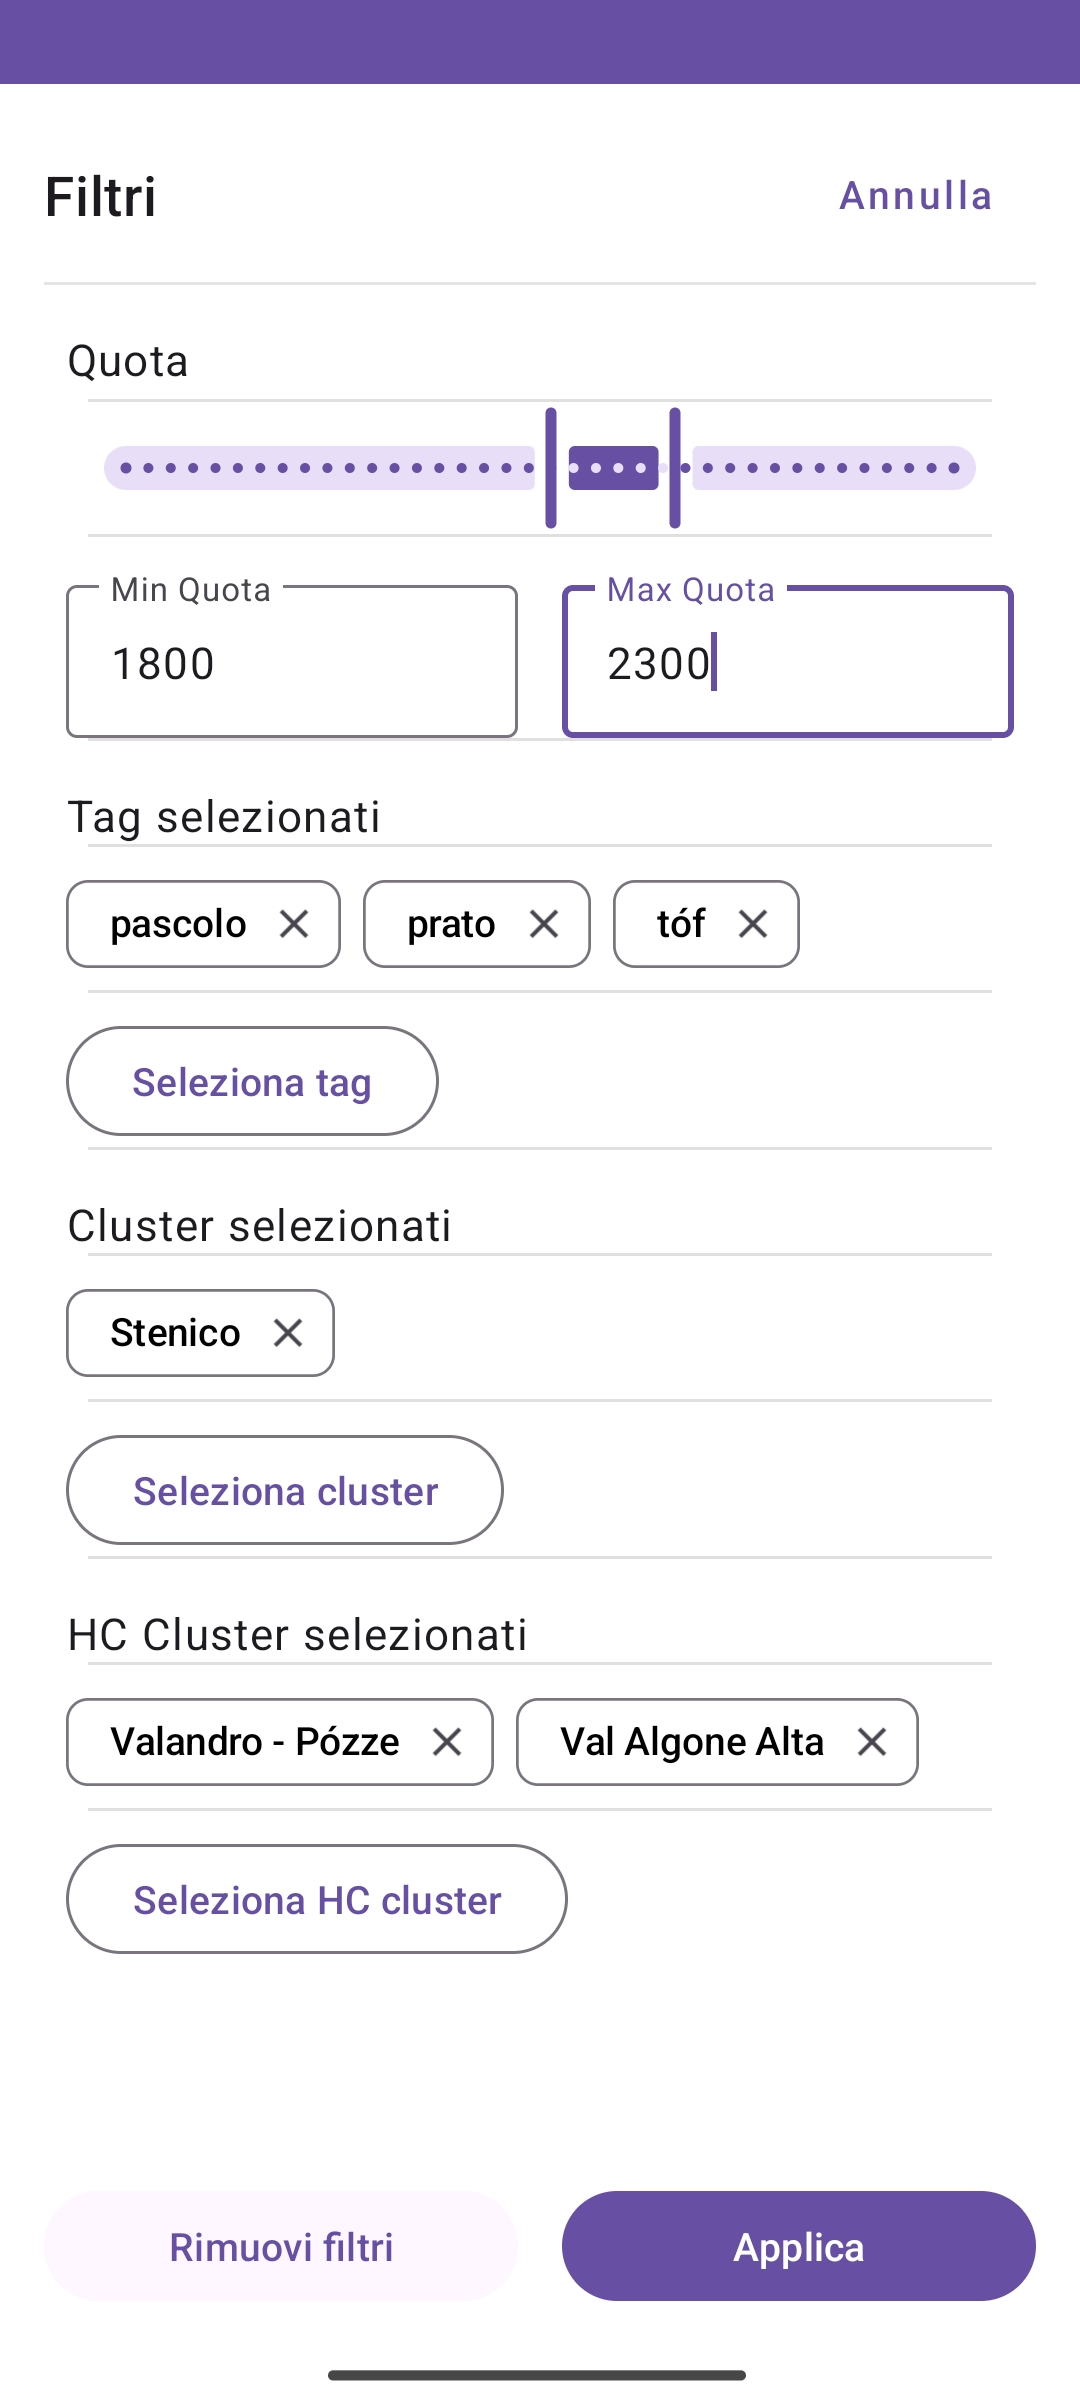
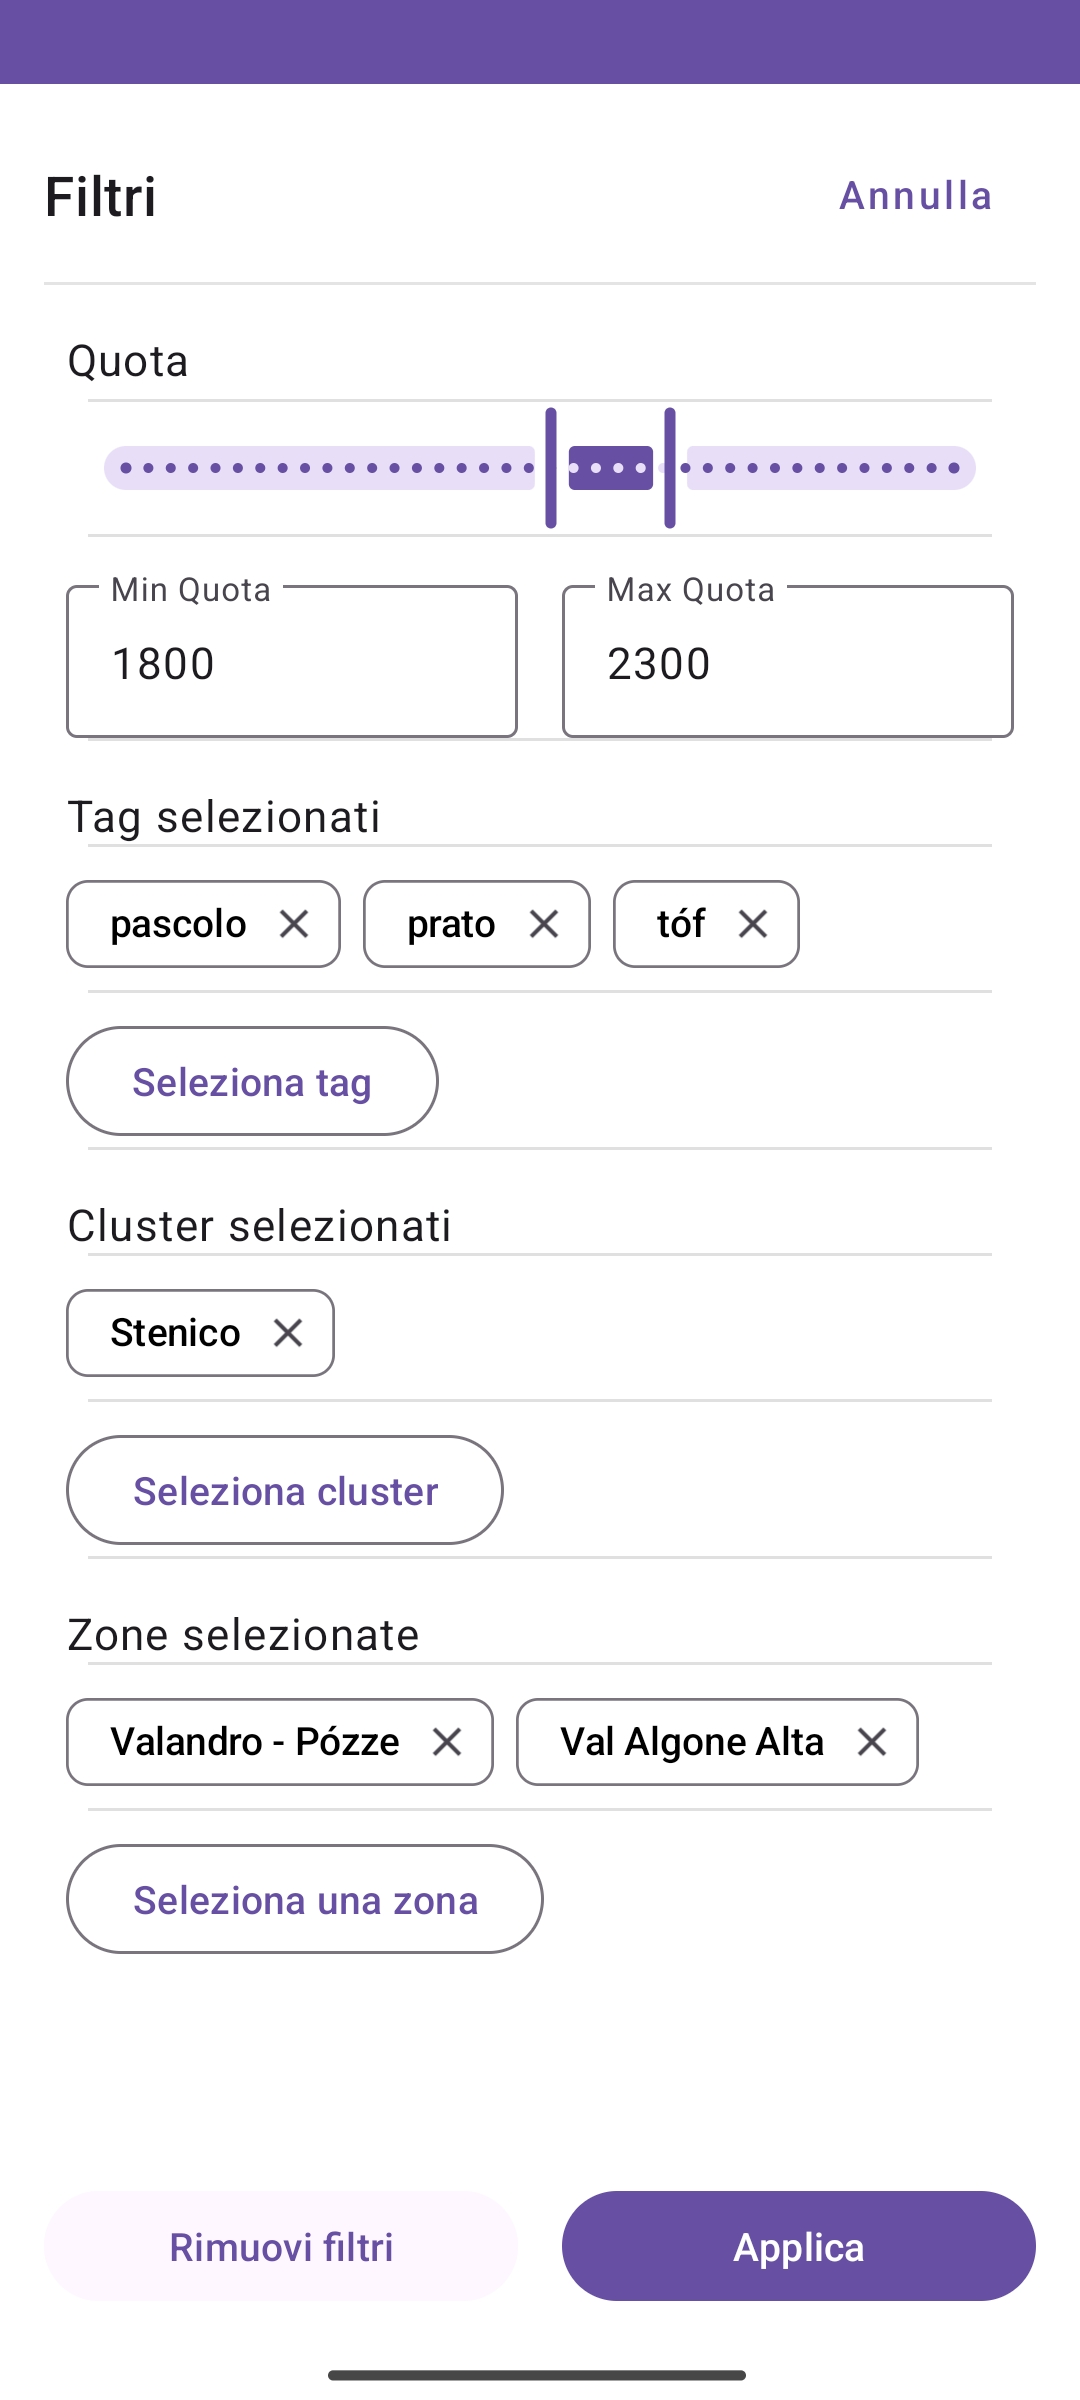
Update README.md

diff --git a/README.md b/README.md
@@ -71,18 +71,27 @@ This app is a hobby project, built for personal use. It is not a finished produc
     - This is required because the app is not distributed through the Google Play Store
 
 ### Features
-- Map view with displayed toponyms
-- Search page with filtering and sorting options
-- Detail page for each toponym with relevant informations
-- Basic GPS localization to show the user's current position
-- Offline support for both the map and data
+- **Map view** with displayed toponyms
+- **Satellite map view**, fully available offline
+- Optional **map layers**, including contour lines and administrative boundaries
+- **Search interface** with advanced *filtering* and *sorting* options
+- **Detail pages** for each toponym with comprehensive information 
+- **Bookmark** system to save toponyms
+- **Export** functionality for bookmarks, search results, and individual toponyms in multiple formats (PDF, GPX, GeoJSON and more)
+- Basic **GPS localization** to display the user’s current position on the map
+- **Offline** support for vector maps, satellite imagery, and toponym data
+- **Settings** page to manage downloaded satellite tiles and view app info
 
 ### Screenshots
 
-| Map View | Filters |
+| OSM-like Map | Satellite Map |
 |----------|---------|
-| ![Map View](screenshots/map_view.jpg) | ![Filters](screenshots/filters.jpg) |
+| ![OSM Map](screenshots/osm_map.jpg) | ![Satellite Map](screenshots/satellite_map.jpg) |
 
 | Search View | Detail View |
 |-------------|-------------|
-| ![Search View](screenshots/search_view.jpg) | ![Detail View](screenshots/detail_view.jpg) |
+| ![Search View](screenshots/search.jpg) | ![Detail View](screenshots/detail.jpg) |
+
+| Bookmarks | Filters |
+|-------------|-------------|
+| ![Bookmarks](screenshots/bookmarks.jpg) | ![Filters](screenshots/filters.jpg) |
